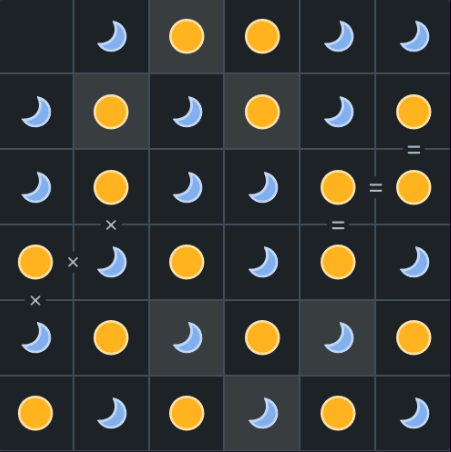
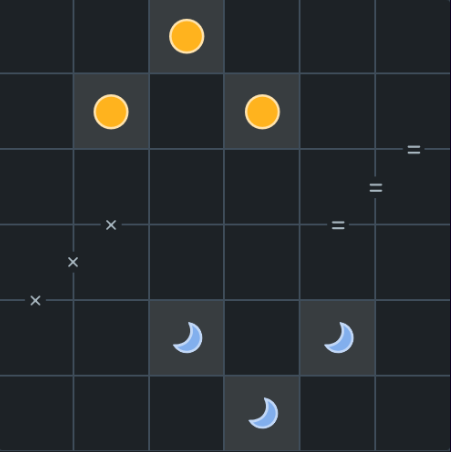
signs wip

diff --git a/TangoScriptSolution/scripts/ProcesarImagen.py b/TangoScriptSolution/scripts/ProcesarImagen.py
@@ -8,15 +8,15 @@ folderSigns = "signs"
 TEMPLATE_PATH = os.path.join(BASE_DIR, "images", folder)
 SIGN_PATH = os.path.join(BASE_DIR, "images", folderSigns)
 
-ENTRADA_PATH = os.path.join(BASE_DIR, "images", "template_dark.PNG")
+ENTRADA_PATH = os.path.join(BASE_DIR, "images", "test.PNG")
 
 # Cargar templates
 templates = {
     0: cv2.imread(os.path.join(TEMPLATE_PATH, "empty.PNG"), cv2.IMREAD_COLOR), #uso el IMREAD_COLOR para que no se convierta a escala de grises
     1: cv2.imread(os.path.join(TEMPLATE_PATH, "sol.PNG"), cv2.IMREAD_COLOR),
     2: cv2.imread(os.path.join(TEMPLATE_PATH, "luna.PNG"), cv2.IMREAD_COLOR),
-    # 3: cv2.imread(os.path.join(SIGN_PATH, "multiply.PNG"), cv2.IMREAD_COLOR),
-    # 4: cv2.imread(os.path.join(SIGN_PATH, "equal.PNG"), cv2.IMREAD_COLOR),
+    3: cv2.imread(os.path.join(SIGN_PATH, "multiply1.PNG"), cv2.IMREAD_COLOR),
+    4: cv2.imread(os.path.join(SIGN_PATH, "equal.PNG"), cv2.IMREAD_COLOR),
 }
 
 # Verificar templates cargados
@@ -54,16 +54,21 @@ def detectar_signo(franja, template, umbral=0.6):
     return score >= umbral
 
 def detectar_icono(celda, umbral=0.6):
-    # Recorta el centro 
     h, w = celda.shape[:2]
-    offset = int(min(h, w) * 0.2)
+    offset = int(min(h, w) * 0.1)
     celda_recortada = celda[offset:h - offset, offset:w - offset]
 
     max_score = -1
     mejor_id = None
 
     for tipo_id, template in templates.items():
+        # Evita errores si el template es muy pequeño
+        if template is None or template.shape[0] <= 2*offset or template.shape[1] <= 2*offset:
+            continue
         tpl = template[offset:template.shape[0]-offset, offset:template.shape[1]-offset]
+        # Verifica que tpl y celda_recortada tengan tamaño válido
+        if tpl.size == 0 or celda_recortada.size == 0:
+            continue
         tpl_resized = cv2.resize(tpl, (celda_recortada.shape[1], celda_recortada.shape[0]))
 
         res = cv2.matchTemplate(celda_recortada, tpl_resized, cv2.TM_CCOEFF_NORMED)
@@ -90,19 +95,32 @@ def main():
                 tipo_icono = detectar_icono(celda) or 0  # por si falla
             fila.append(tipo_icono)
         matriz_resultado.append(fila)
+    # Matriz de signos horizontales (entre columnas)
     matriz_signos_h = []
     for i in range(rows):
         fila_signos = []
         for j in range(cols - 1):
-            y1, y2 = i * cell_h, (i + 1) * cell_h
-            x1 = (j + 1) * cell_w - cell_w // 6
-            x2 = (j + 1) * cell_w + cell_w // 6
+            # Recorte centrado y cuadrado para el signo horizontal
+            y1 = i * cell_h + int(cell_h * 0.35)
+            y2 = (i + 1) * cell_h - int(cell_h * 0.35)
+            x_centro = (j + 1) * cell_w
+            ancho = int(cell_w * 0.4)
+            x1 = x_centro - ancho // 2
+            x2 = x_centro + ancho // 2
             franja = image[y1:y2, x1:x2]
+
+            # Debug visual
+            if i==3 and j==0:
+                cv2.imshow(f"Franja H [{i},{j}]", franja)
+                cv2.waitKey(0)
+                cv2.destroyAllWindows()
+            
+
             signo = None
-            if 4 in templates and detectar_signo(franja, templates[4], 0.6):
+            if 4 in templates and detectar_signo(franja, templates[4], 0.5):
                 signo = "="
-            elif 3 in templates and detectar_signo(franja, templates[3], 0.6):
-                signo = "X"
+            elif 3 in templates and detectar_signo(franja, templates[3], 0.5):
+                signo = "x"
             fila_signos.append(signo)
         matriz_signos_h.append(fila_signos)
 
@@ -111,15 +129,26 @@ def main():
     for i in range(rows - 1):
         fila_signos = []
         for j in range(cols):
-            y1 = (i + 1) * cell_h - cell_h // 6
-            y2 = (i + 1) * cell_h + cell_h // 6
-            x1, x2 = j * cell_w, (j + 1) * cell_w
+            # Recorte centrado y cuadrado para el signo vertical
+            x1 = j * cell_w + int(cell_w * 0.3)
+            x2 = (j + 1) * cell_w - int(cell_w * 0.3)
+            y_centro = (i + 1) * cell_h
+            alto = int(cell_h * 0.3)
+            y1 = y_centro - alto // 2
+            y2 = y_centro + alto // 2
             franja = image[y1:y2, x1:x2]
+
+            # Debug visual
+            if i==2 and j==4:
+                cv2.imshow(f"Franja H [{i},{j}]", franja)
+                cv2.waitKey(0)
+                cv2.destroyAllWindows()
+
             signo = None
-            if 4 in templates and detectar_signo(franja, templates[4], 0.6):
+            if 4 in templates and detectar_signo(franja, templates[4], 0.5):
                 signo = "="
-            elif 3 in templates and detectar_signo(franja, templates[3], 0.6):
-                signo = "X"
+            elif 3 in templates and detectar_signo(franja, templates[3], 0.5):
+                signo = "x"
             fila_signos.append(signo)
         matriz_signos_v.append(fila_signos)
 
